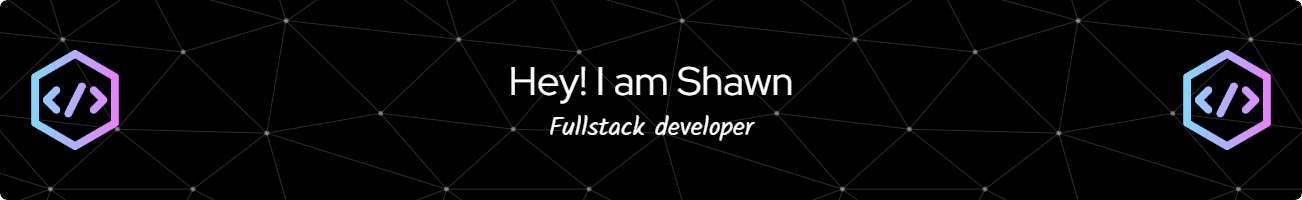
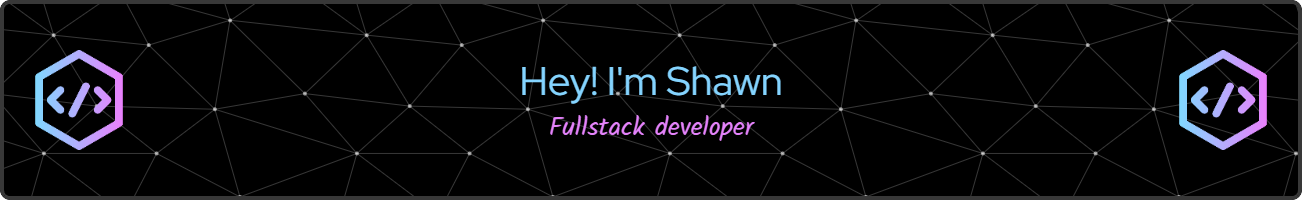
Updated readme and header image

diff --git a/README.md b/README.md
@@ -29,3 +29,8 @@ Original Artifact: [Click Here](https://github.com/sjcurtis/sjcurtis.github.io/t
 
 
 ## Database
+
+
+
+## References
+- Generate Header Images: https://leviarista.github.io/github-profile-header-generator/
